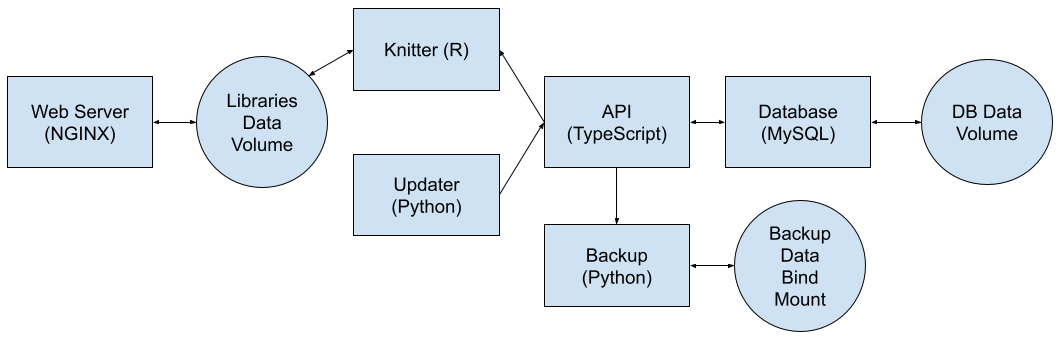
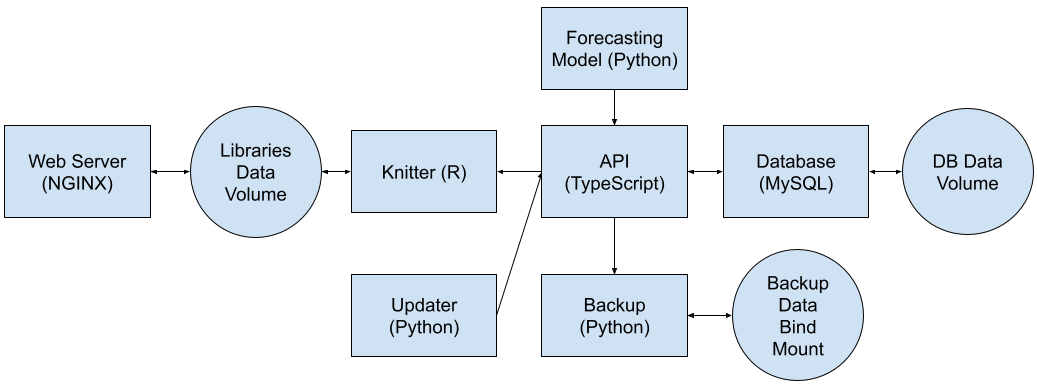
add readme and update design image

diff --git a/README.md b/README.md
@@ -34,6 +34,10 @@ Handles an NGINX web server that serves the knitted `rmarkdown` html file.
 
 Contains a python script that fetches current occupancy data and sends it to the TypeScript API.
 
+### `predictor/model`
+
+Contains a python script that trains a timeseries forecasting model on the busyness data, then sends some predictions back to the database
+
 # Deployment with Docker
 
 Required environment variables:
@@ -54,5 +58,7 @@ Run updater and stop api and database afterward: `docker compose run --rm update
 Run knitter and stop api and database afterward: `docker compose run --rm knitter && docker compose down api && docker compose down db`
 
 Backup data to CSV files: `docker compose run --rm backup`. NOTE: ensure that the `export` folder is present in the `data/backup` folder.
+
+Run model: `docker compose run --rm model`
 
 Stop all services: `docker compose down`
